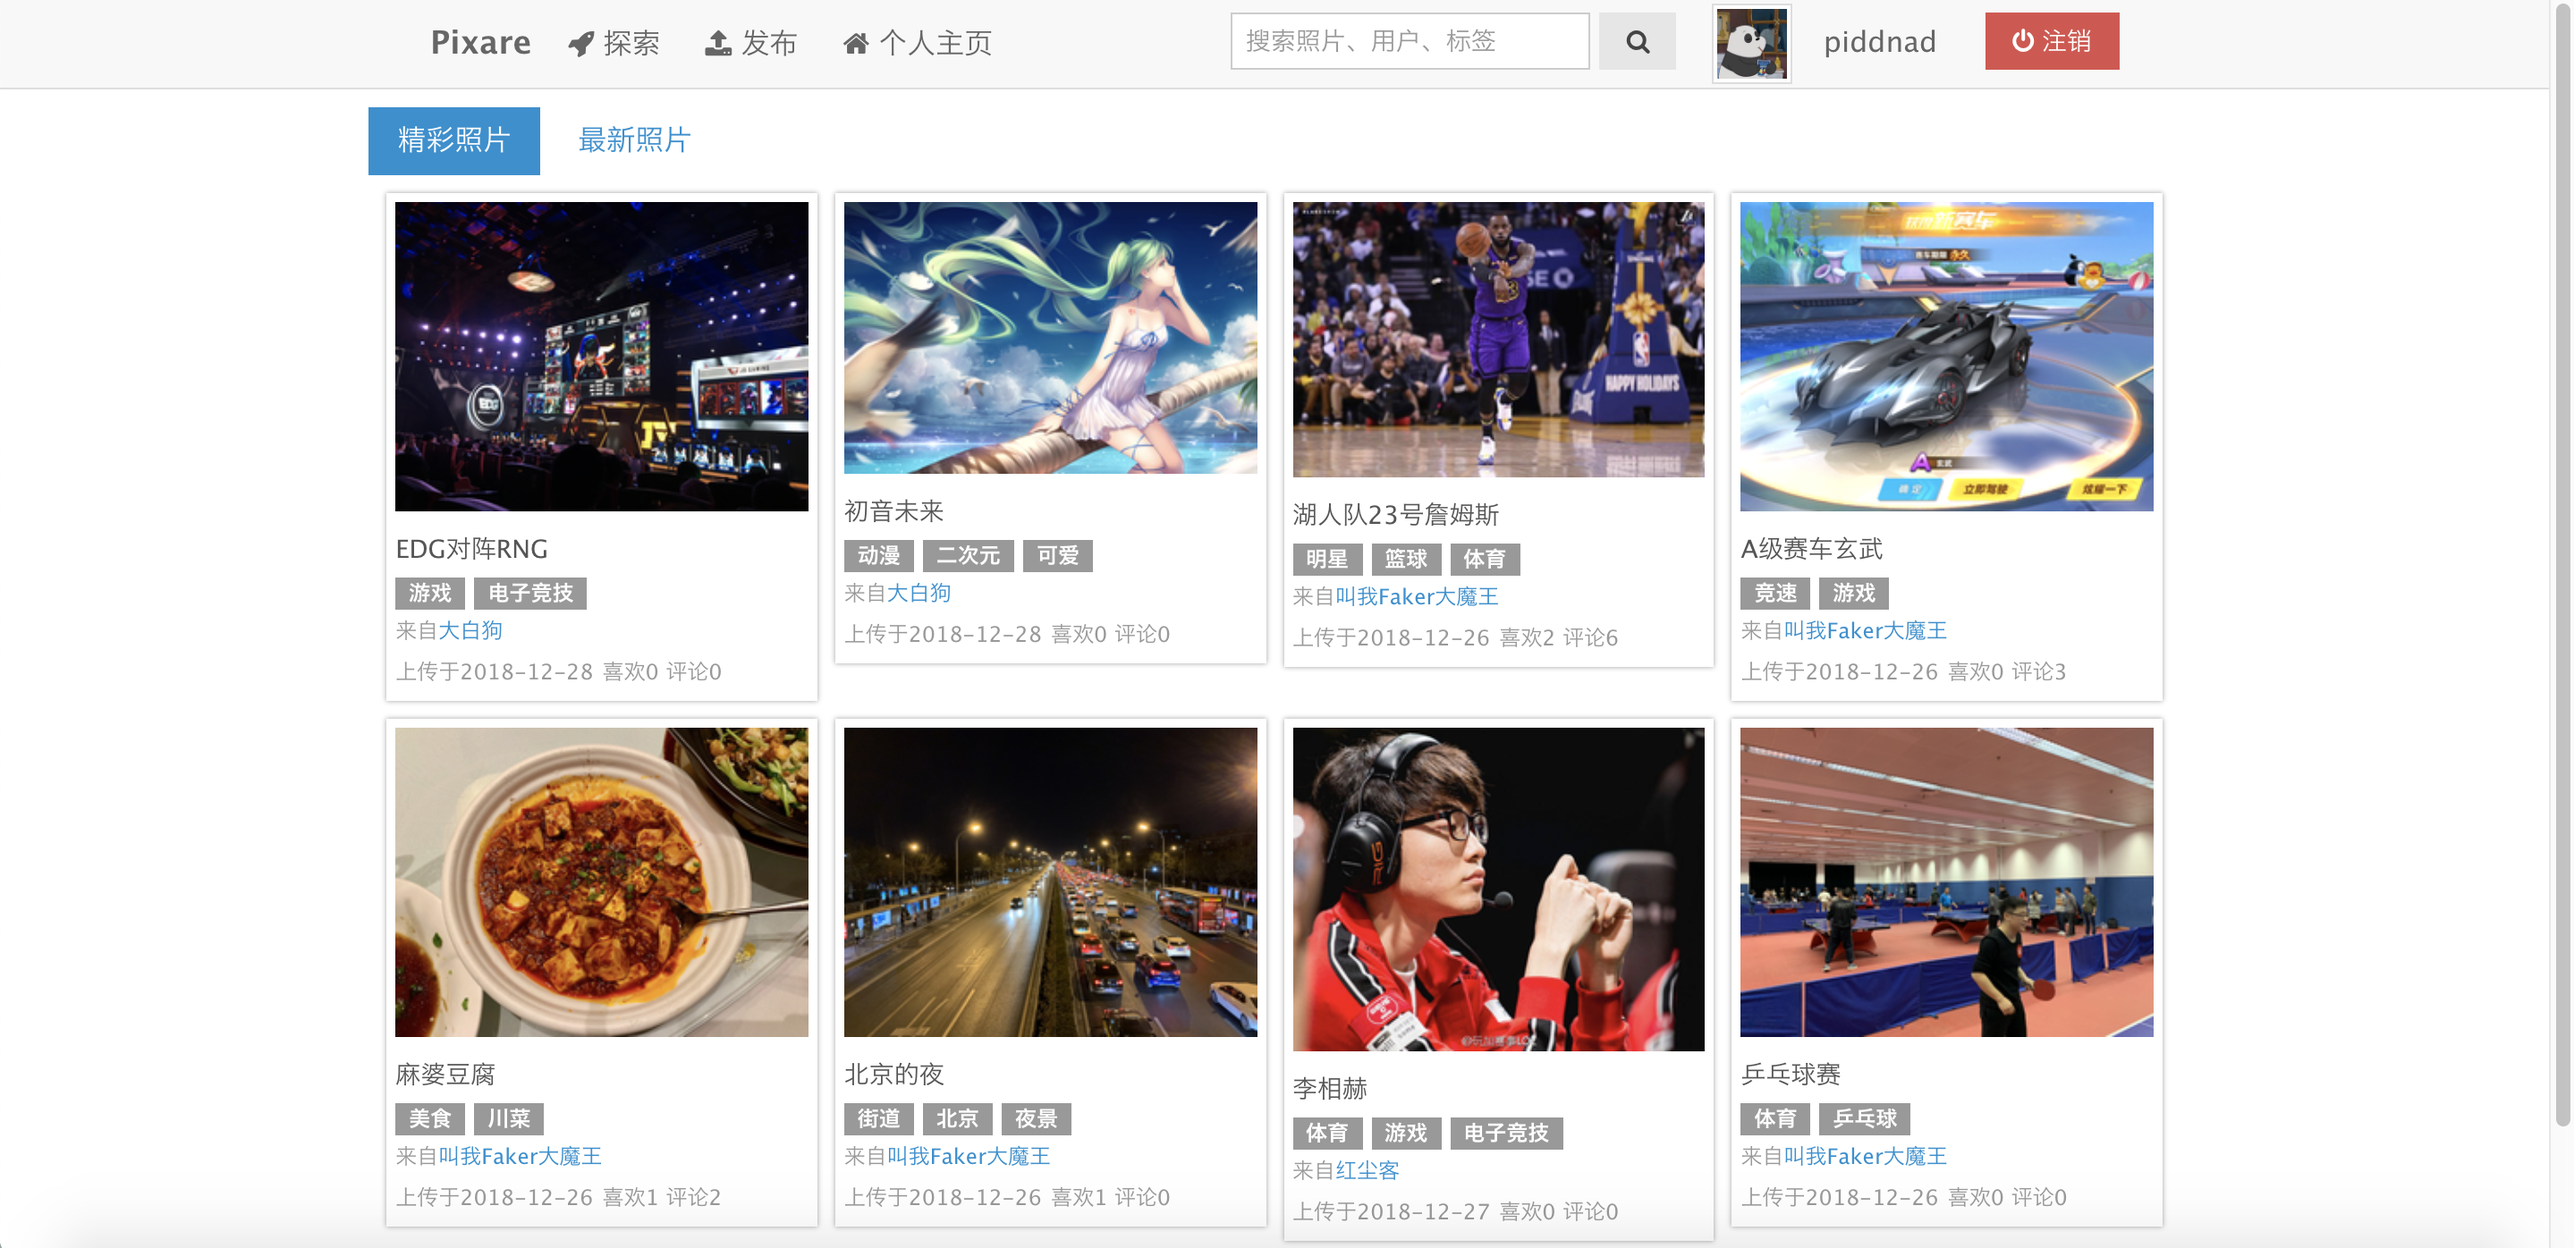
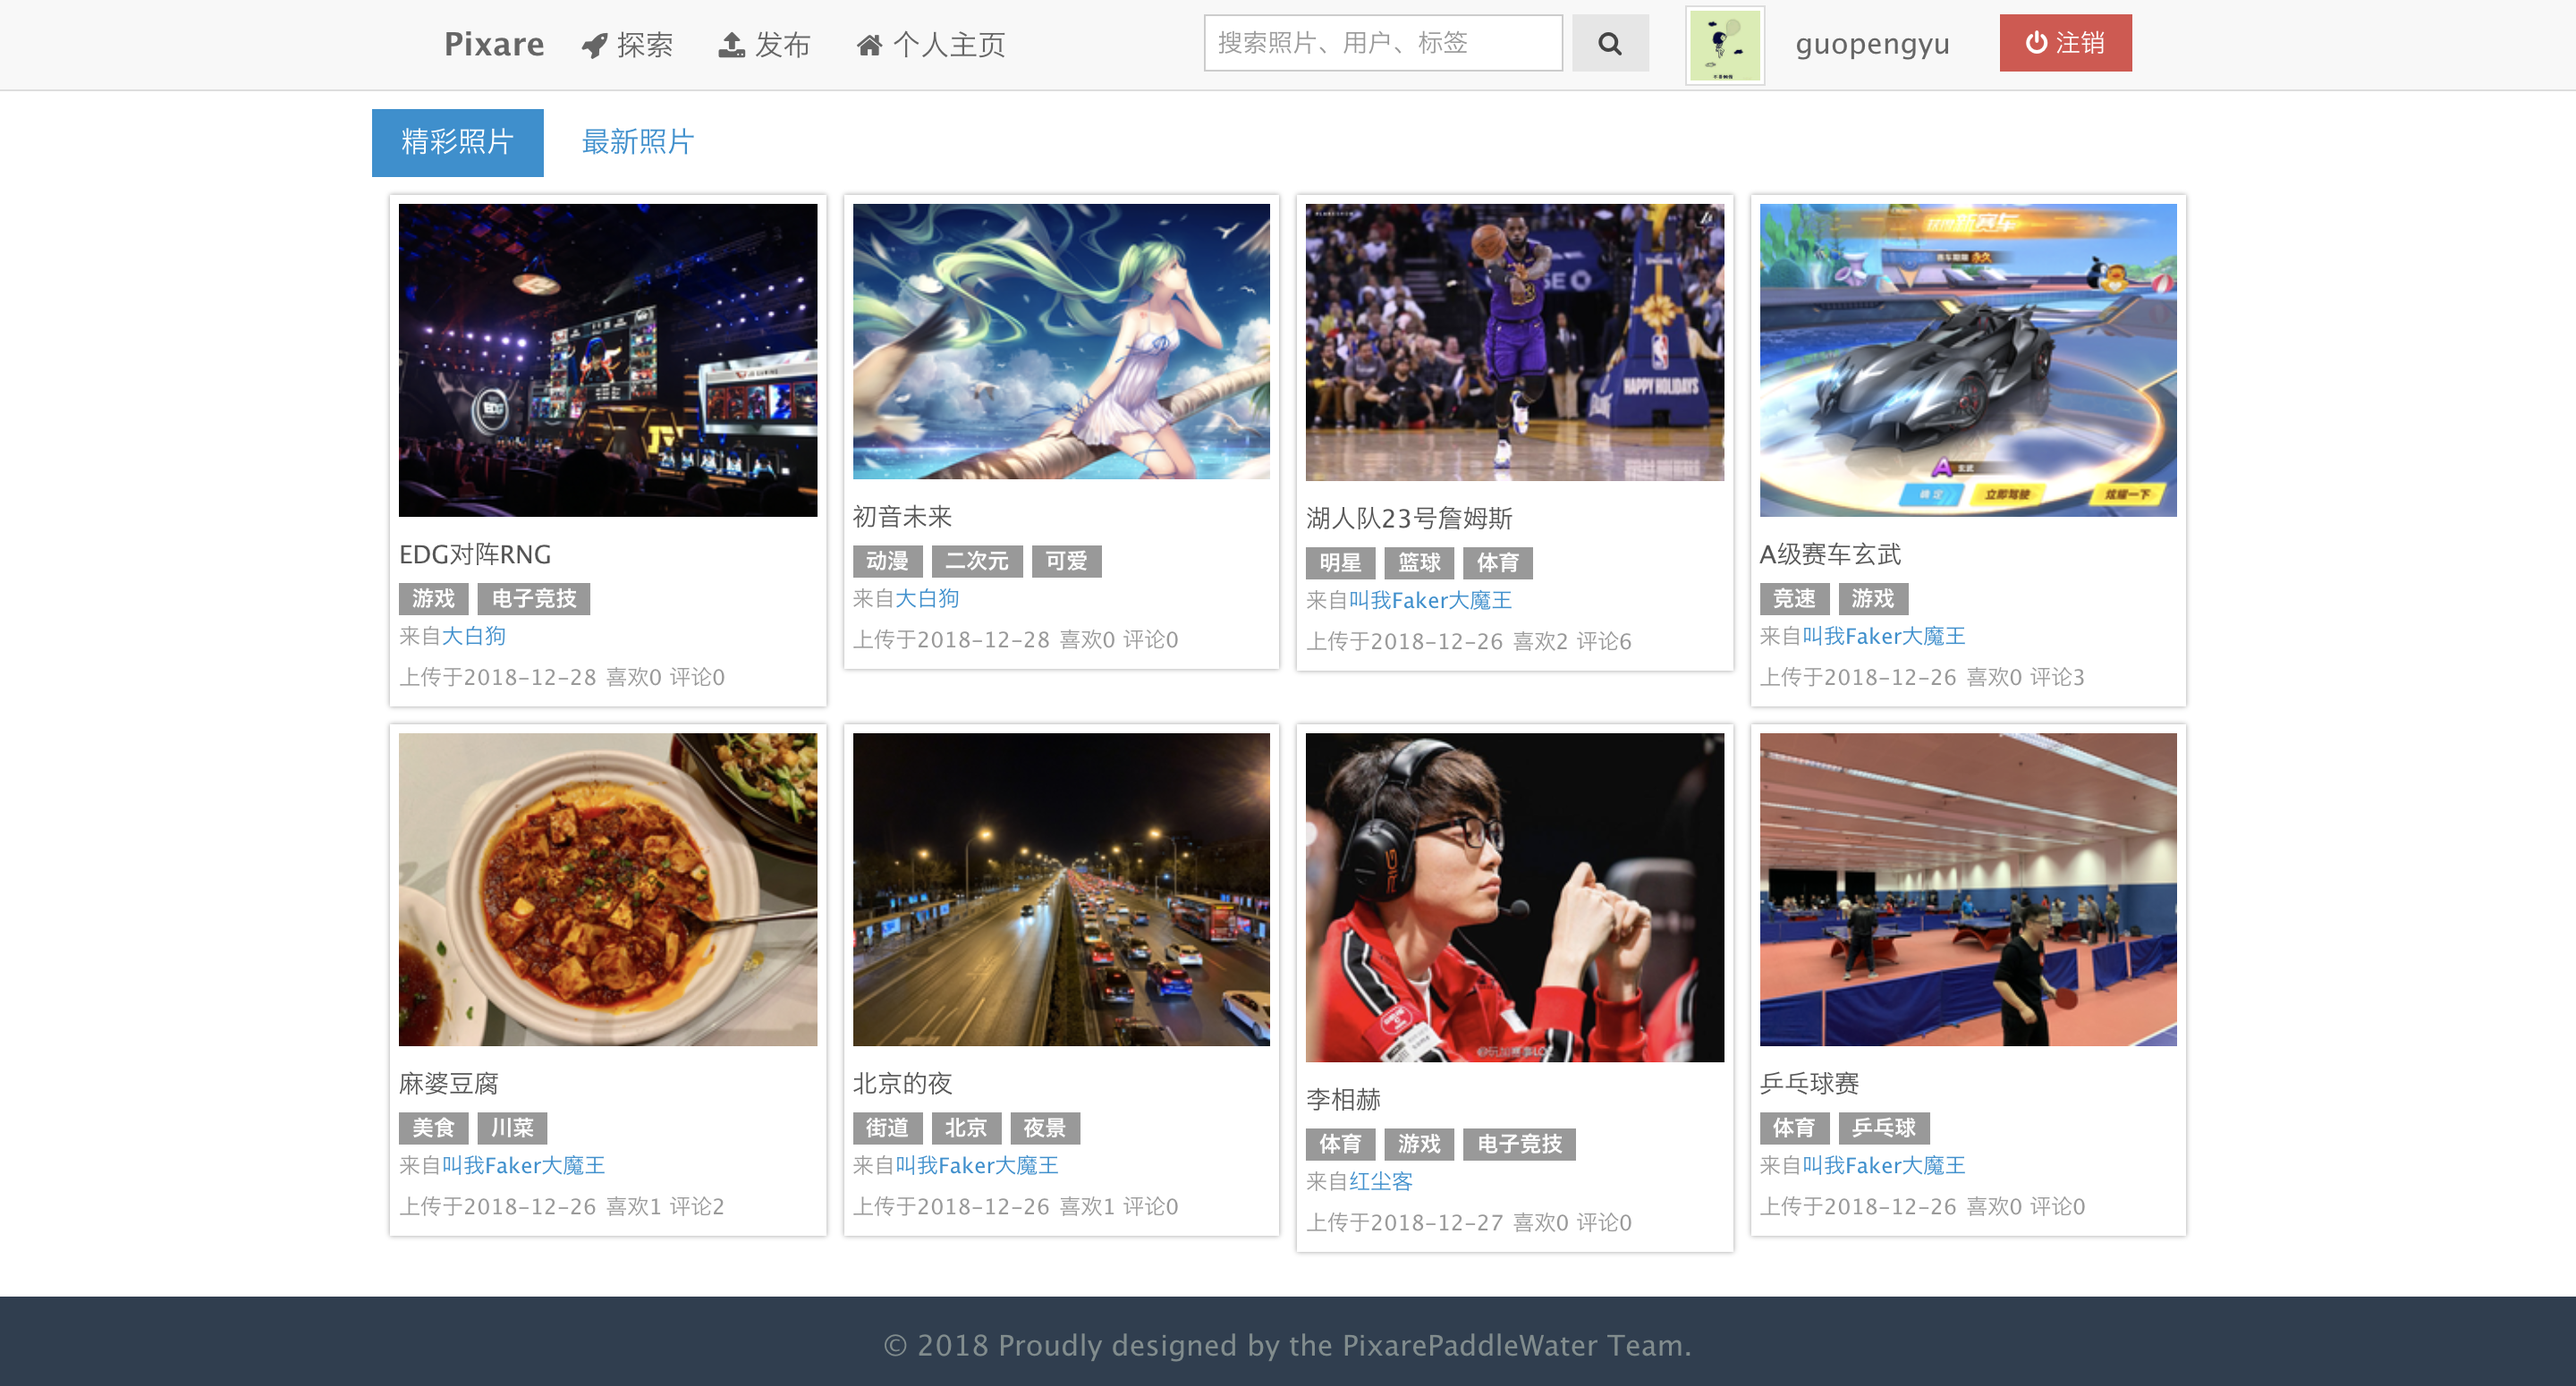
modify some screenshots

diff --git a/templates/base.html b/templates/base.html
@@ -24,7 +24,7 @@
       padding: 15px 0;
       text-align: center;
       background: #2d3e50;
-      margin-top: 10px;
+      margin-top: 0px;
     }
     .am-topbar-right img {
       margin-top: 3px;

diff --git a/README.md b/README.md
@@ -43,10 +43,9 @@
 
 个人主页
 ![](screenshots/people_home.png)
-![](screenshots/people_comments.png)
 
 评论页
-![](screenshots/comments.png)
+![](screenshots/detail.png)
 
 搜索结果页
 ![](screenshots/search.png)
